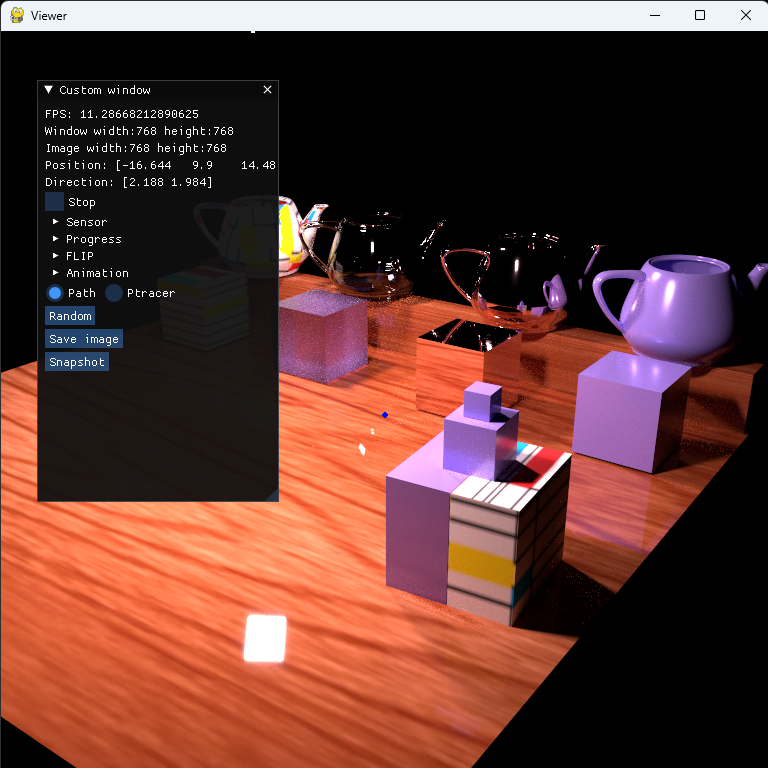
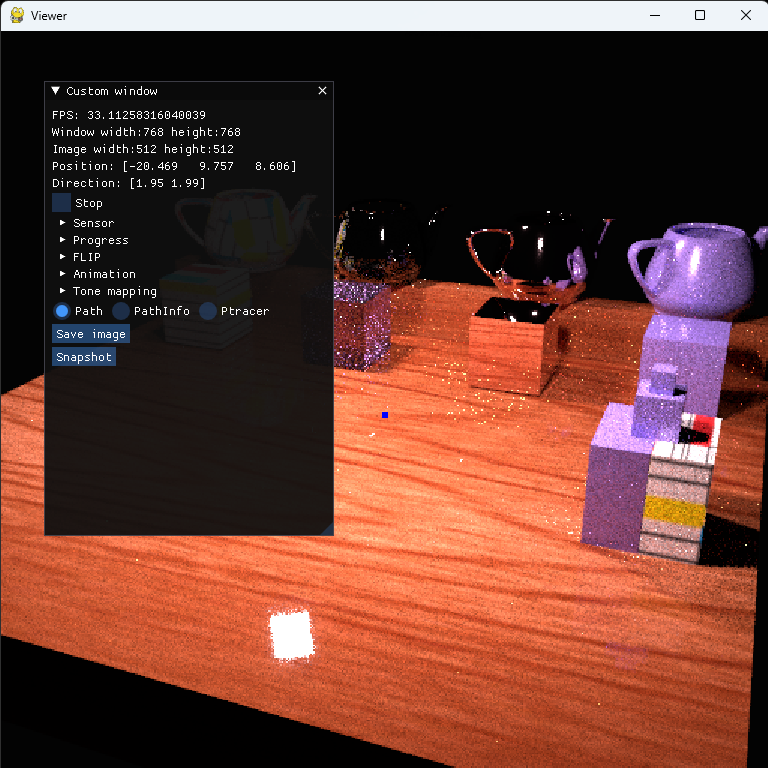
Update README.md

diff --git a/README.md b/README.md
@@ -1,10 +1,11 @@
 # Mitsube Scene Viewer and Generator(from blender)
 # Mitsube Scene Viewer
 Simple mitsube viewer in pygame.
-- Integraor parameter control (SPP、depth...)
+- Integraor parameter control (SPP,depth,resolution...)
 - Progress output (average output images)
 - FLIP error map
 - Animation
+- Tone mapping
 - Save image
 
 ![](/images/miViewer.png)
@@ -15,7 +16,7 @@ Install PyTorch(cuda) and packages in requiremetns.txt
 ### Optional
 - [FLIP](https://github.com/NVlabs/flip): Show error map.
 
-- [pycuda](https://github.com/inducer/pycuda): Render the image without copying torch.tensor to host memory. Install pycuda with gl extension.
+- [pycuda](https://github.com/inducer/pycuda): Render the image without copying torch.tensor to host memory. Install pycuda with gl extension.( ! There are bugs after import pycuda)
 1. Clone  `git clone --recursive https://github.com/inducer/pycuda.git `
 2. Create siteconf.py file `python ./configure.py --cuda-enable-gl`
 3. Build `python setup.py build`
@@ -30,6 +31,13 @@ Run the default scene `python ./main.py` or `python ./main.py -p [path to direct
 - `R`: Reset position
 - `Left mouse`: drag to control view direction
 - `Esc`: Quit
+
+## Animation
+Export the animation information to `animation.xml`. (Examples can be found in `scene/miScene`). `animation.xml` can be load through `my_mi.mitsuba_scene`. 
+
+For more information please refer to the function `miWrapper_QuickStart` in `main.py` and `gltf2miScene.cpp`.
+
+
 
 # Mitsube Scene Generator (c++)
 Convert gltf 2.0 to mitsube scene. 
@@ -63,7 +71,7 @@ Some sample scenes can be found [here](./scene/)
 - Run `gltf2miScene.exe path_to_gltf_file.gltf`.
 - The results are located in `miScene/` under the current folder.
 ```
-output
+miScene
 |- textures
     |- texture.png
 |- models

diff --git a/scene/README.md b/scene/README.md
@@ -3,9 +3,9 @@ Test scene's Blender file can be downloaded from [Google Drive](https://drive.go
 
 Other sample scenes can be found in [Google Drive](https://drive.google.com/drive/folders/1uGSYw2tzQ6esItkB-MoEyVNPbfyCXXQw?usp=sharing).
 
-For some scenes in the link. I recreated the scene in [Rendering resources](https://benedikt-bitterli.me/resources/). 
+
 - Load model to Blender
 - Change materials to Principled BSDF
-- Add lighting
+- Add area light
 - Create animation
 - Export to glTF
